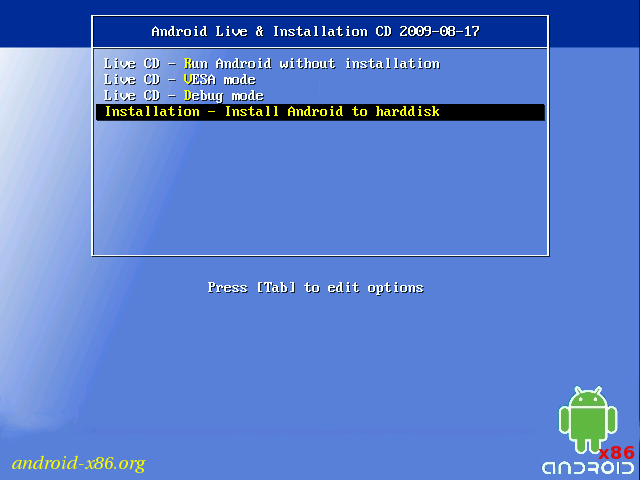
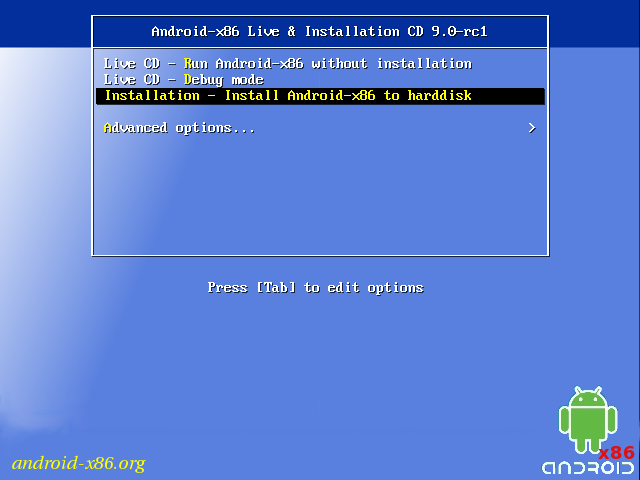
Update installhowto.html

Changed region(s): [[0.125, 0.125, 0.875, 0.2812], [0.3438, 0.0312, 0.75, 0.0938]]

diff --git a/installhowto.html b/installhowto.html
@@ -25,35 +25,52 @@
         <button class="button" onclick="setActiveStyleSheet('alternate'); return false;" ><img src="dark_theme.png" height="20px" width"20px" title="Toggle Theme"/></button>
       </div>
 
-      <h1>Installation</h1><br>
-      <h2>Introduction</h2>
-      We have implemented an easy installer to install Android-x86 to a harddisk. The supported filesystems are
+      <h1>Installation</h1>
+      <br><h2>Introduction</h2>
+      We have implemented a text-based easy installer to help install Android-x86 to a hard drive. These filesystems are supported:
       <ul>
-        <li>ext3</li>
-        <li>ext2</li>
+        <li>ext4</li>
         <li>ntfs</li>
         <li>fat32</li></ul>
-        <p>You can install Android-x86 to an NTFS filesystem to co-exist with Windows. See the <a href="#Advanced">Advanced Section</a> for more details.</p>
-
+        <p>In particular, you can install Android-x86 to an NTFS filesystem to co-exist with Windows. See the <a href="#Advanced">Advanced Section</a> for more details.</p>
+      <p>
       <script data-cfasync="false" type="text/javascript" src="//www.increaserev.com/ads/728x90below_res.js"></script>
-      <h2>Step by Step</h2>
+      </p>
+
+      <br><h2>Step by Step</h2>
         <ul>
+          <li>Download an iso image from <a href="download.html">a mirror site</a>. Usually you should just use the latest image.</li>
           <li>Burn the iso image to cdrom, or create a bootable USB disk (recommended). See the <a href="#Advanced">Advanced Section</a> for details.</li>
-          <li>Boot from the Android-x86 installation CD/USB, choose the 'Install Android to harddisk' item, as shown below:
-			<br /><blockquote><img src="screenshots/InstallBootSelect.png"></blockquote></li>
+          <li>Boot from the Android-x86 installation CD/USB, choose the 'Install Android-x86 to harddisk' item, as shown below:
+			<br><blockquote><img src="screenshots/InstallBootSelect.png"></blockquote></li>
           <li>After seconds of booting, you will see a partition selection dialog. You can choose an existing partition to install Android-x86, or you can create or modify partitions by choosing 'Create/Modify partitions'. Note you can install Android-x86 to an external disk like USB drive. If the target drive is not shown, try 'Detect devices'.
-			<br /><blockquote><img src="screenshots/InstallChoosePartition.png"></blockquote></li>
-          <li>Android-x86 can co-exist with other operating system or data in the chosen partition. If the partition is formatted, you may choose 'Do not format' to keep existing data. Otherwise, choose a filesystem type to format. Note the type you chosen must match the partition id, or the boot loader will fail to boot.
-			<br /><blockquote><img src="screenshots/InstallChooseFilesystem.png"></blockquote></li>
-          <li>Also note if you choose to format to fat32, you will see a warning that android cannot save data to fat32. You can still proceed to install, but the installed android system will work like a live cd system. That is, all data will lose after power off. Therefore we do not recommend to install Android-x86 to a fat32 partition.</li>
-          <li>Next question is whether to install boot loader Grub. Usually you should answer yes, unless you want to install boot loader by hand yourself. Note the installer only creates boot items for Android-x86. If you hope to boot other operating systems, you need to add the item to /grub/menu.lst manually. See the Advanced section for how to do this.
-			<br /><blockquote><img src="screenshots/InstallGrubConfirm.png">
-</blockquote></li>
+			<br><blockquote><img src="screenshots/InstallChoosePartition.png"></blockquote></li>
+          <li>Android-x86 can co-exist with other operating system or data in the chosen partition. If the partition is formatted, you may choose 'Do not re-format' to keep existing data. Otherwise, choose a filesystem type to format. Note the type you chosen must match the partition id, or the boot loader will fail to boot.
+			<br><blockquote><img src="screenshots/InstallChooseFilesystem.png"></blockquote></li>
+          <li>If you choose to format the partition, you will see a warning like below. Select 'Yes' to confirm, or select 'No' to keep the original filesystem.
+			<br><blockquote><img src="screenshots/InstallFormatConfirm.png"></blockquote></li>
+	  <li>Next question is whether to install boot loader Grub. Usually you should answer 'Yes', unless you want to install boot loader by hand yourself.
+			<br><blockquote><img src="screenshots/InstallGrubConfirm.png"></blockquote></li>
+	  <li>Then the installer will ask if you want to install <tt>/system</tt> directory as read-write. If you want to modify the system for some purposes (e.g., debugging), select 'Yes'.
+			<br><blockquote><img src="screenshots/InstallSelectSystemRW.png"></blockquote></li>
           <li>If you are lucky, the installation will begin, and you will see the progress bar.
-			<br /><blockquote><img src="screenshots/InstallProgress.png"></blockquote></li>
+			<br><blockquote><img src="screenshots/InstallProgress.png"></blockquote></li>
           <li>If you see the following screen, the installation is complete. Congratulations! Now you can run Andrond-x86 directly, or you can reboot and run it:
-			<br /><blockquote><img src="screenshots/InstallComplete.png"></blockquote>
+			<br><blockquote><img src="screenshots/InstallComplete.png"></blockquote>
         </ul>
+
+      <br><h2>Upgrade</h2>
+      <p>You may upgrade an older Android-x86 installation by the installer. Just select the partition containing the older installation. The installer will prompt if you'd like to upgrade it:
+			<br><blockquote><img src="screenshots/UpgradeSingleVersion.png"></blockquote>
+      Select 'Yes' to upgrade it. Select 'No' to install the new version to a new directory and keep the older installation untouched.</p>
+
+      <p>If there are multiple older versions in the same partition, the installer will ask which version to upgrade:
+			<br><blockquote><img src="screenshots/UpgradeMultipleVersions.png"></blockquote>
+      Select the one you want to upgrade, or choose to install to a new folder.</p>
+
+      <h2>Auto Installation / Update</h2>
+
+      <h2>Other boot options</h2>
 
           <br /><br /><h1 id="Advanced">Advanced</h1>
           <br/ /><br /><h2>How to create a bootable USB stick for Android-x86?</h2>
